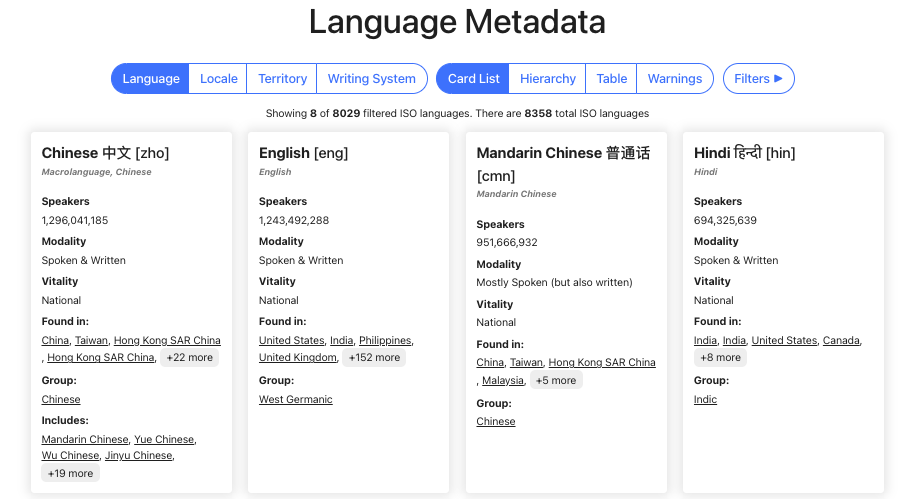
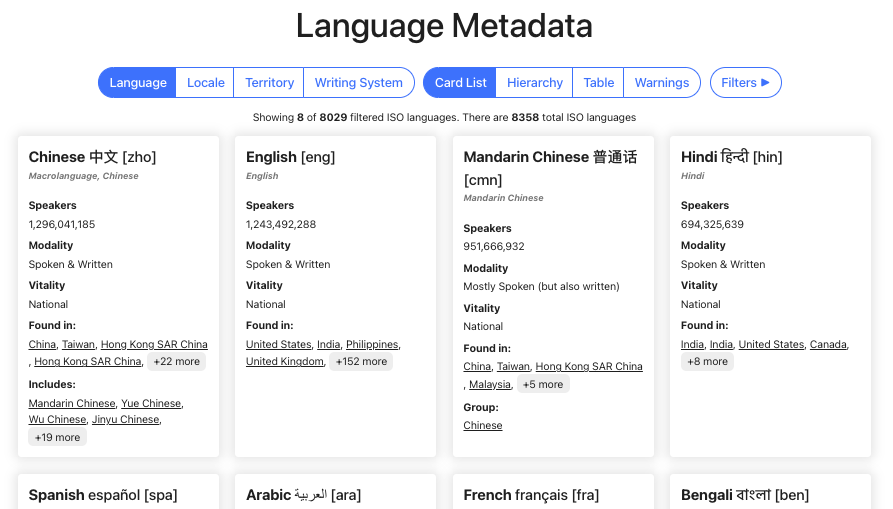
Enhancement: Update some information for languages

diff --git a/src/views/language/LanguageCard.tsx b/src/views/language/LanguageCard.tsx
@@ -1,7 +1,7 @@
 import React from 'react';
 
 import { usePageParams } from '../../controls/PageParamsContext';
-import { LanguageData } from '../../DataTypes';
+import { LanguageData, LanguageScope } from '../../DataTypes';
 import CommaSeparated from '../../generic/CommaSeparated';
 import Highlightable from '../../generic/Highlightable';
 import { getObjectName, getObjectSubtitle } from '../common/getObjectName';
@@ -70,12 +70,14 @@ const LanguageCard: React.FC<Props> = ({ lang, includeRelations }) => {
           </CommaSeparated>
         </div>
       )}
-      {includeRelations && parentLanguage != null && (
-        <div>
-          <h4>Group:</h4>
-          <HoverableLanguageName lang={parentLanguage} />
-        </div>
-      )}
+      {includeRelations &&
+        parentLanguage != null &&
+        parentLanguage.scope != LanguageScope.Family && (
+          <div>
+            <h4>Group:</h4>
+            <HoverableLanguageName lang={parentLanguage} />
+          </div>
+        )}
       {includeRelations && Object.keys(childLanguages).length > 0 && (
         <div>
           <h4>Includes:</h4>

diff --git a/src/views/language/LanguageDetails.tsx b/src/views/language/LanguageDetails.tsx
@@ -56,7 +56,16 @@ const LanguageDetails: React.FC<Props> = ({ lang }) => {
         </div>
         <div>
           <label>Glottocode:</label>
-          {Glottolog.code ? Glottolog.code : <em>Not in Glottolog</em>}
+          {Glottolog.code ? (
+            <>
+              {Glottolog.code}
+              <a href={`https://glottolog.org/resource/languoid/id/${Glottolog.code}`}>
+                <button className="LinkButton">Open in Glottolog</button>
+              </a>
+            </>
+          ) : (
+            <em>Not in Glottolog</em>
+          )}
         </div>
         <div>
           <label>ISO Code:</label>
@@ -64,6 +73,9 @@ const LanguageDetails: React.FC<Props> = ({ lang }) => {
             <>
               {ISO.code}
               {codeISO6391 ? ` | ${codeISO6391}` : ''}
+              <a href={`https://iso639-3.sil.org/code/${ISO.code}`}>
+                <button className="LinkButton">Open in ISO</button>
+              </a>
             </>
           ) : (
             <em>Not in ISO catalog</em>

diff --git a/src/views/styles.css b/src/views/styles.css
@@ -74,6 +74,16 @@ a:hover {
     padding: 0 4px;
 }
 
+.LinkButton {
+    margin-left: 1em;
+    padding: 4px;
+}
+
+.LinkButton::after {
+    content: '↗';
+    margin-left: 4px;
+}
+
 @media (min-width: 0px) {
     .CardList {
         grid-template-columns: repeat(1, 1fr);

diff --git a/src/views/modal.css b/src/views/modal.css
@@ -17,6 +17,7 @@
     background-color: var(--color-background);
     border-radius: 10px;
     box-shadow: var(--color-shadow) 0 0 2em 1em;
+    max-height: 100%;
 }
 
 .ModalHeader {
